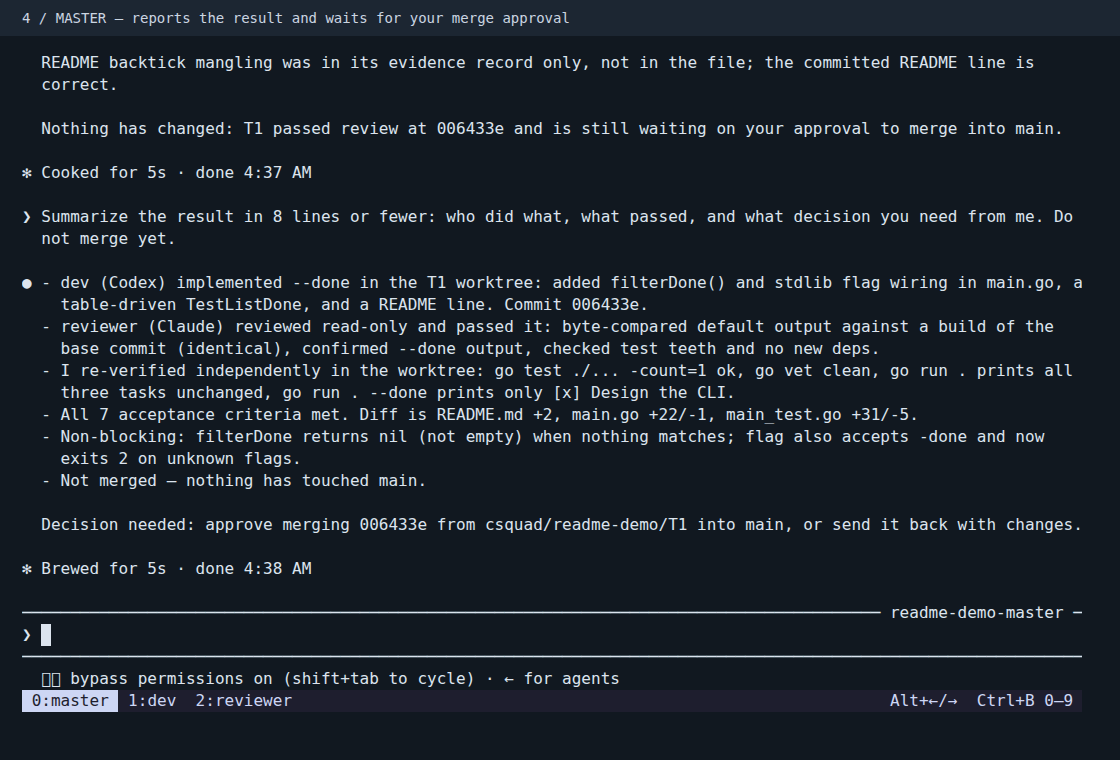
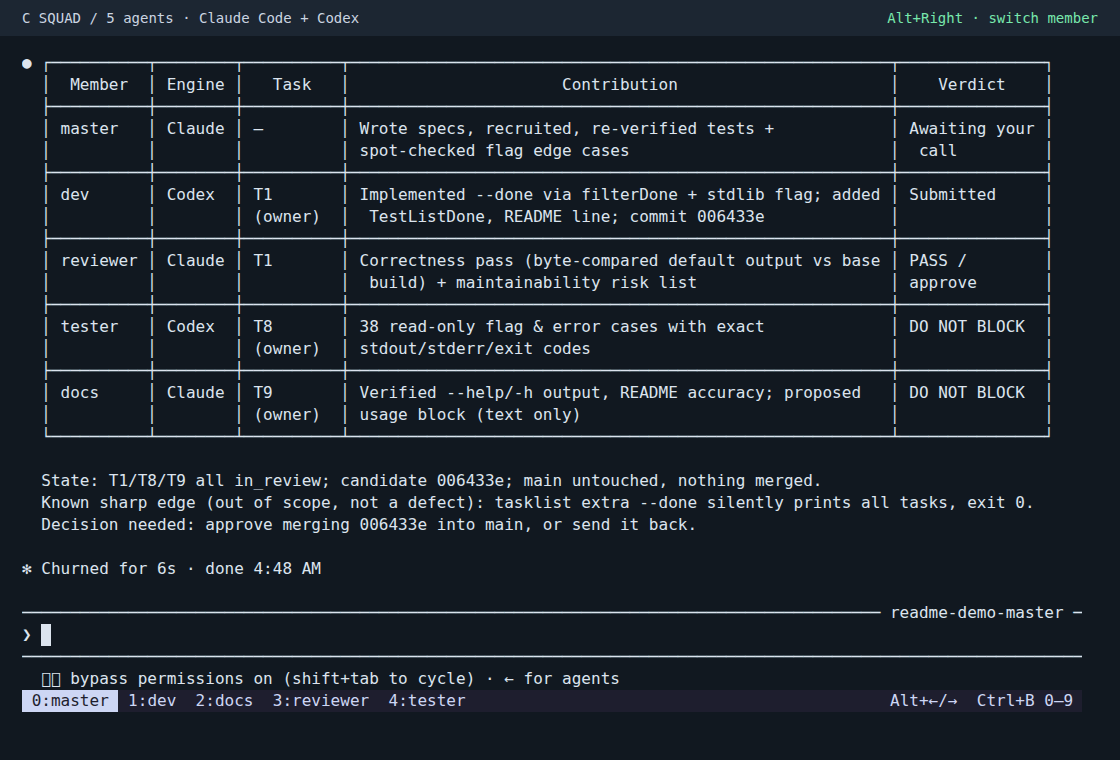
Show five agents with continuous tmux session switching

diff --git a/README.md b/README.md
@@ -23,10 +23,11 @@ Master creates the task, starts the members, and passes work between them. Each
 agent has its own tmux session. You can switch between them to see what they are
 doing, or stay with Master and ask for an update.
 
-![A real C Squad team in tmux: Master, Codex developer, and Claude reviewer](docs/assets/demo.gif)
+![Switching between five real tmux sessions: Master, developer, docs, reviewer, and tester](docs/assets/demo.gif)
 
-*A short tour assembled from real tmux captures: Claude Master delegates,
-Codex implements, and Claude reviews. [View a still image](docs/assets/demo.png).*
+*A real tmux recording: use Alt+Right to cycle through Master, developer, docs,
+reviewer, and tester to inspect their work. Each view stays on screen for about two
+seconds. [View a still image](docs/assets/demo.png).*
 
 ## Why use it?
 
